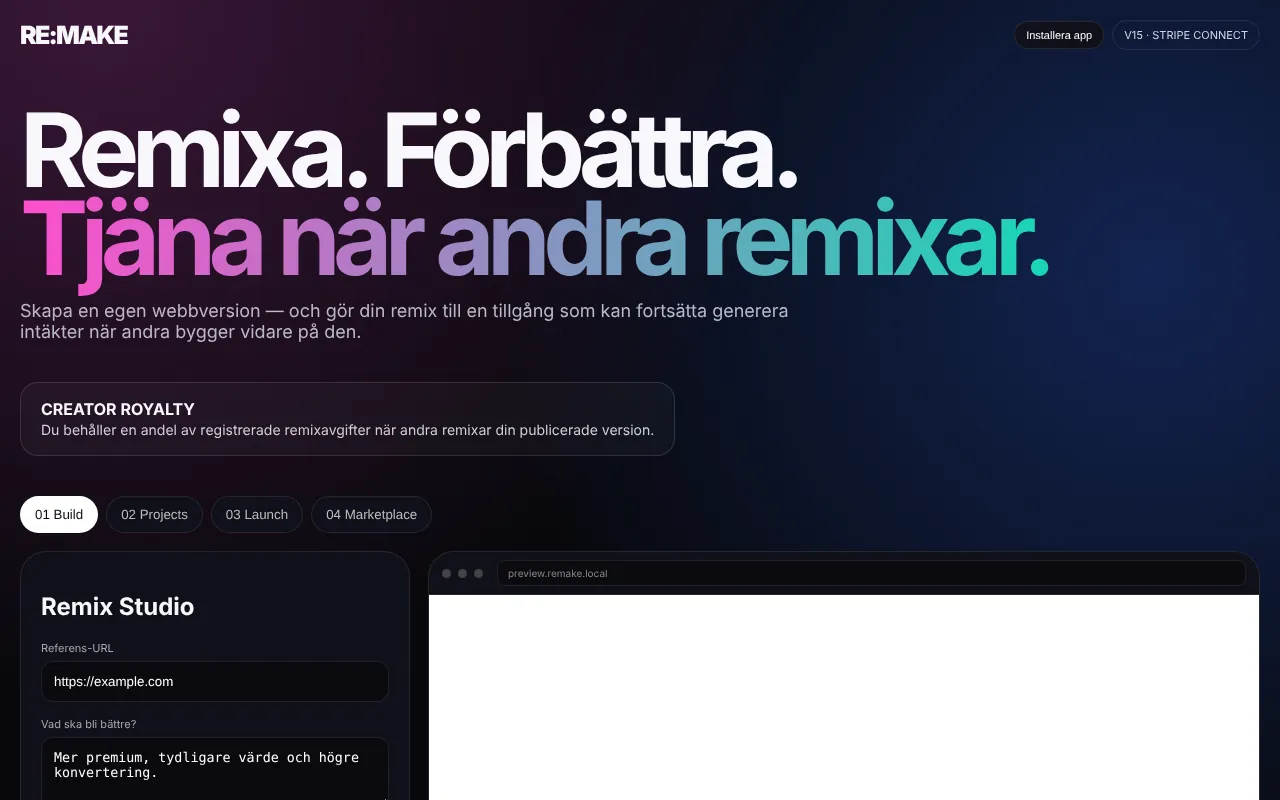
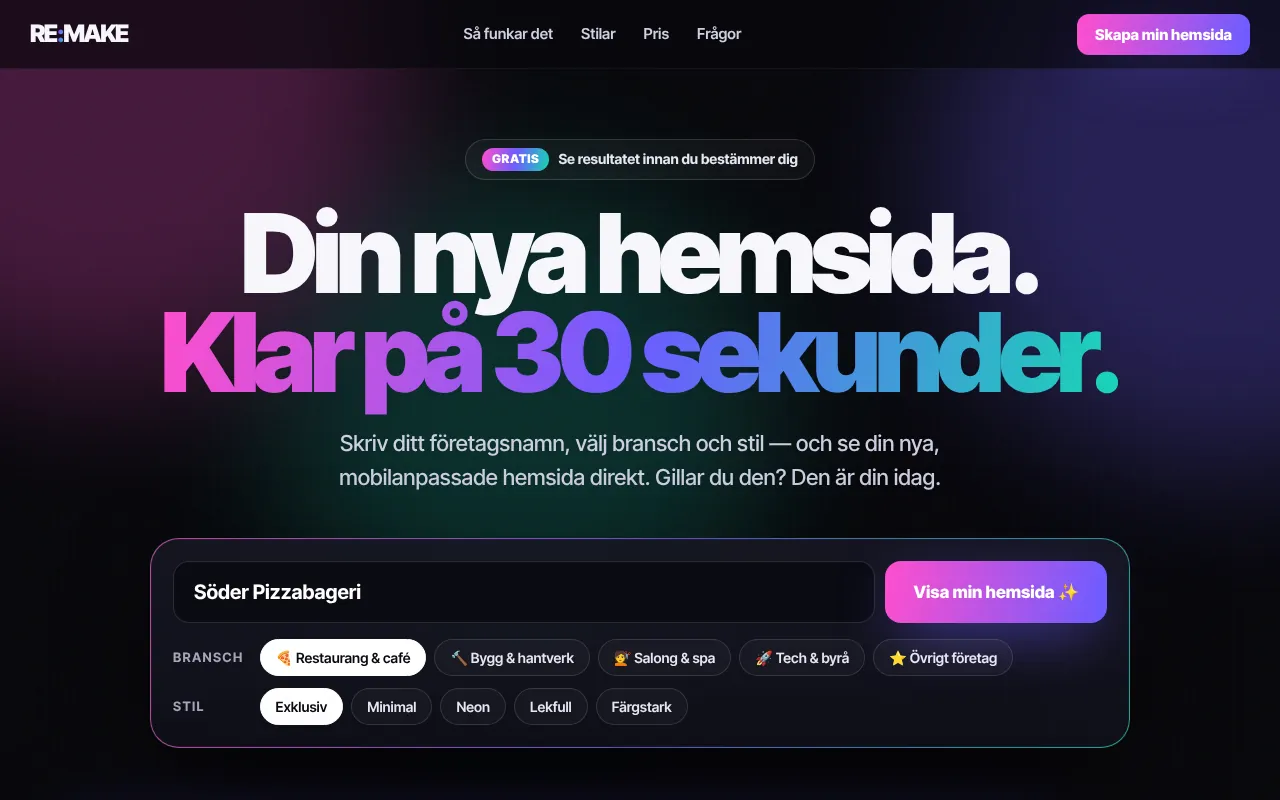
Update RE:MAKE in portfolio: new landing page, engine and agency studio
Claude-Session: https://claude.ai/code/session_01U4hR9YgGHssLpx1QqraZaf

diff --git a/site/assets/projects.js b/site/assets/projects.js
@@ -219,14 +219,14 @@ window.FREELINE_PROJECTS = [
   {
     id: 'remake',
     name: 'RE:MAKE',
-    tagline: 'Remixa en sida. Tjäna när andra bygger vidare.',
+    tagline: 'Din nya hemsida. Klar på 30 sekunder.',
     category: 'data',
     status: 'demo',
     year: 2026,
     accent: '#ff4ecd',
-    description: 'Remix-studio och creator-marknadsplats: den som remixar en publicerad sida får en egen gren och royalty när nästa person remixar den. Royaltyn betalas ut via Stripe Connect. Finns som installerbar webbapp och Android-app.',
-    features: ['Remix-kedjor med royalty', 'Stripe Connect-utbetalningar', 'Creator-marknadsplats', 'PWA och Android-app'],
-    stack: ['Python', 'Stripe Connect', 'SQLite', 'Android'],
+    description: 'Företagare skriver sitt namn, väljer bransch och stil och ser direkt sin nya hemsida på dator och mobil — och kan köpa den på plats. Motorn bygger exklusiva sajter med riktiga bilder och fem designsystem. En byråstudio skapar säljlänkar till lokala företag, och hemsidan lämnas ut först när Stripe bekräftat betalningen.',
+    features: ['Live-förhandsvisning av kundens egen hemsida', 'Fem designsystem och fem branscher', 'Köp direkt med verifierad Stripe-betalning', 'Byråstudio med säljlänkar och QR', 'Remix-marknadsplats med royalty'],
+    stack: ['Python', 'JavaScript', 'Stripe', 'Android'],
     live: ''
   }
 ];
